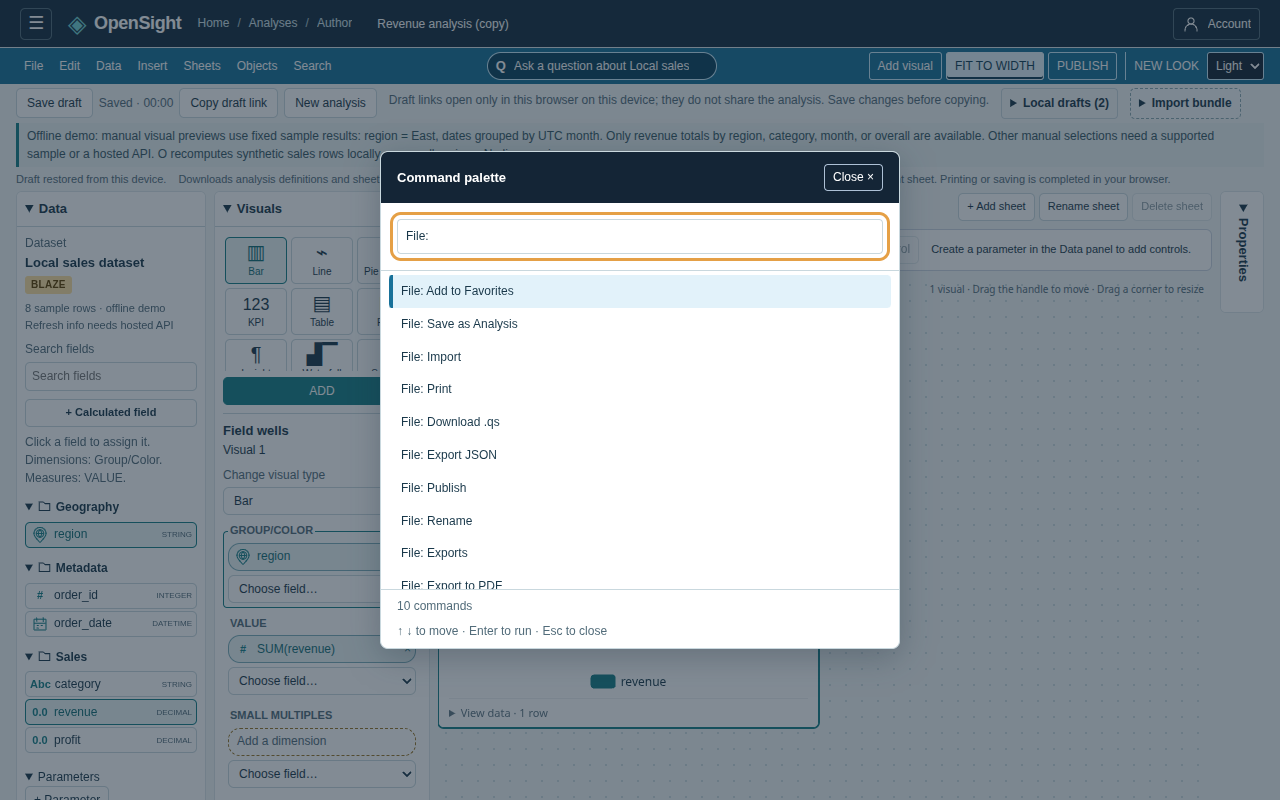
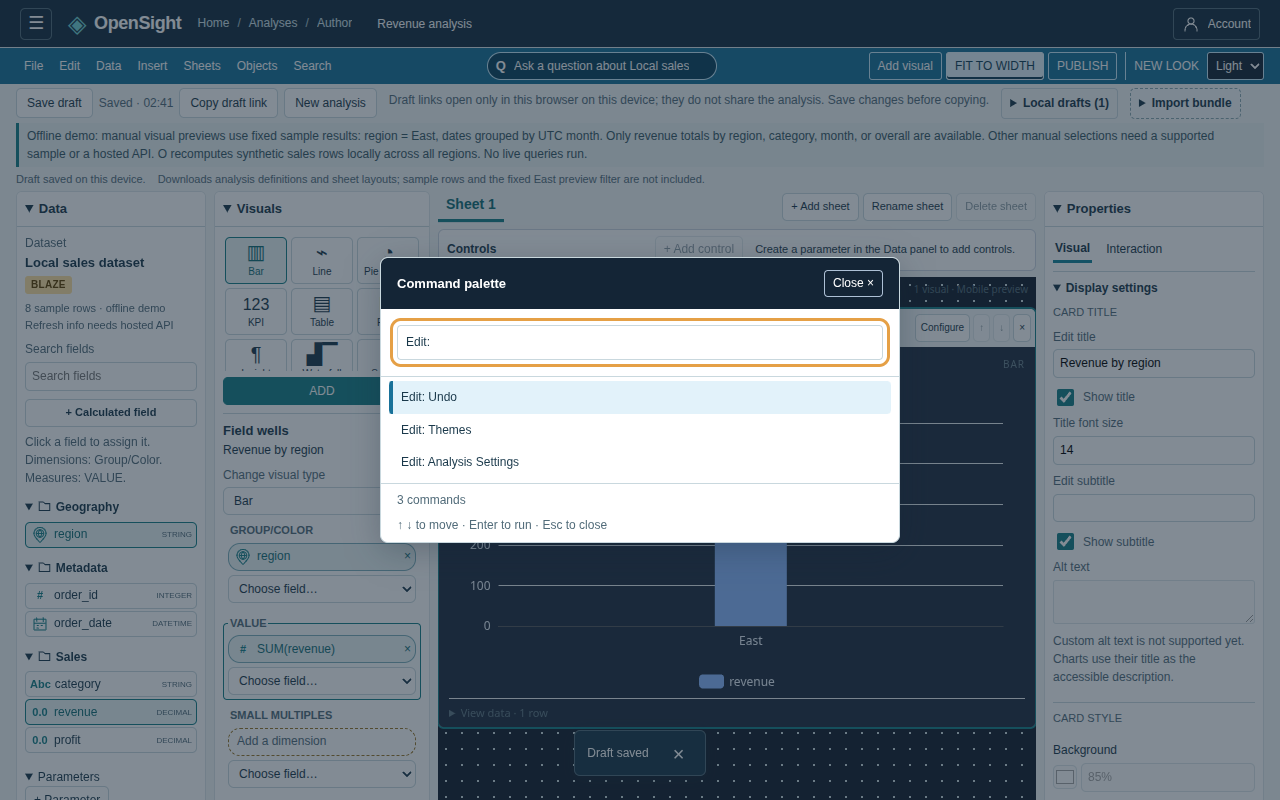
Issue #66: offline browser verification and refreshed README media

diff --git a/docs/issue-66-gap-notes.md b/docs/issue-66-gap-notes.md
@@ -1,0 +1,48 @@
+# Issue #66 — Edit menu visual verification
+
+Compared the rebuilt local static demo with the supplied QuickSight Edit-menu
+reference from the local reference set. The reference was viewed locally and
+was not copied into the repository. Edit retains Undo, Redo, the separator,
+Themes and Analysis Settings in reference order, with the existing navy/blue
+toolbar, Arial system fonts and compact controls.
+
+The menu remains wider than the reference and lacks its small item icons,
+as recorded in #60. Empty history explains availability on focus and hover;
+revealed explanations remain expanded until the menu closes so they cannot
+move a later action during activation. Settings uses a native modal with
+visible labels, staged edits, a theme preview and explicit explanations for
+the unavailable locale/date defaults and hosted permissions. These explanations
+stay visible to keep Apply and Cancel in place as focus changes.
+
+Visual fidelity has not been measured; the demo disclosure remains unchanged.
+The local settings surface does not claim parity with settings unavailable in
+the reference image. No new GitHub issue or phase-plan edit was made under the
+offline/no-spec-edit brief.
+
+The capture workflow adapts the supplied `readme-gif.mjs` and its ffmpeg palette
+and assembly commands. Run `node packages/web/scripts/capture-edit-menu.mjs`
+against a freshly rebuilt `packages/web/dist/opensight-demo.html`. All HTTP(S)
+requests are blocked and counted. Raw captures, definition exports, frames
+and browser logs stay in ignored `.opensight/issue-66/browser/`; only selected
+sanitized feature images and the assembled hero GIF go into `docs/images/`.
+The screenshots depict a local static demo, not a deployed server.
+
+The browser tour passed **23 recorded checks, zero page errors and zero
+external HTTP requests**. It compares complete saved drafts across field-well
+drops/removals, automatic visual creation, visual add/remove, property changes,
+undo/redo interleavings and new edits clearing redo. It exercises all requested
+keyboard variants, empty-stack explanations, palette actions, staged settings,
+Cancel/Escape focus return, validation, real theme changes, definition export
+and reload persistence with fresh history.
+
+Edit and Settings fit at 1440, 1100, 760 and 390px in light and dark themes.
+Keyboard navigation reaches the disabled explanations; the native dialog keeps
+background controls inert, including attempted programmatic focus. Native Tab
+navigation may visit browser chrome before returning to the dialog. The separate
+root-wired geometry suite verifies that explanations never move Apply/Cancel
+during activation. No new unresolved visual defect was identified.
+
+README media: **64 frames, 960×600, 10fps, 6.4 seconds**. Refreshed the hero GIF,
+Author and command-palette screenshots; added Edit-menu and Analysis Settings
+screenshots. The capture script uses the textbox's accessible name for populated
+descriptions, whose textarea text can also appear in label-selector text.

diff --git a/README.md b/README.md
@@ -8,7 +8,7 @@ bidirectional asset compatibility — connect data, prepare datasets, build
 analyses and dashboards, and ask questions in natural language. Self-hosted;
 no AWS required.
 
-![OpenSight tour: Home, O answer, Analyses, Author, command palette, and data tools](docs/images/opensight-tour.gif)
+![OpenSight tour: Home, O answer, Author, Edit menu, Analysis Settings, command palette, and data tools](docs/images/opensight-tour.gif)
 
 *Above: the offline demo — a dashboard, O answering "revenue by region" and
 adding the chart to an analysis, saved drafts, data preparation, connectors,
@@ -122,6 +122,18 @@ sharing integration. See [File menu semantics](docs/issue-65-file-menu.md) and
 [other menu behavior and limitations](docs/issue-60-menu-bar-parity.md).
 
 ![File menu in the local static demo](docs/images/file-menu.png)
+
+Edit supports **Undo/Redo** for field assignments, visual add/remove, properties
+and other authoring changes, with 50 commands per editor session. Use
+**Cmd/Ctrl+Z**, **Cmd/Ctrl+Shift+Z**, or **Ctrl+Y**. **Analysis Settings** edits the
+name, description and analysis theme as one undoable change. Settings persist
+on this device and round-trip in definition exports. Locale/date defaults and
+hosted sharing remain individually unavailable with explanations. See
+[Edit menu semantics](docs/issue-66-edit-menu.md).
+
+![Edit menu with working Undo and Analysis Settings](docs/images/edit-menu.png)
+
+![Analysis Settings in the local static demo](docs/images/analysis-settings.png)
 
 ![Authoring canvas with assigned fields and the Ask a question trigger in the toolbar](docs/images/author.png)
 

diff --git a/docs/issue-66-edit-menu.md b/docs/issue-66-edit-menu.md
@@ -53,3 +53,14 @@ to keep the modal stable as focus changes. The former
 is not supported consistently by the current rendering paths; UTC date grouping
 is unchanged. Sharing requires a hosted analysis and API integration. Neither
 limitation disables the feasible local settings surface.
+
+## Browser verification and media
+
+The rebuilt static demo passed an offline Chromium tour with **23 recorded
+checks, zero page errors and zero external HTTP requests**. The tour compares
+actual saved drafts through field, visual and property history chains; verifies
+settings application, cancellation, export and reload; and checks keyboard,
+palette and disabled explanations across four viewport widths in both themes.
+See [visual verification and gap notes](issue-66-gap-notes.md) for the reference
+comparison, capture workflow and refreshed README media. Raw artifacts remain
+in ignored `.opensight/issue-66/browser/`.
